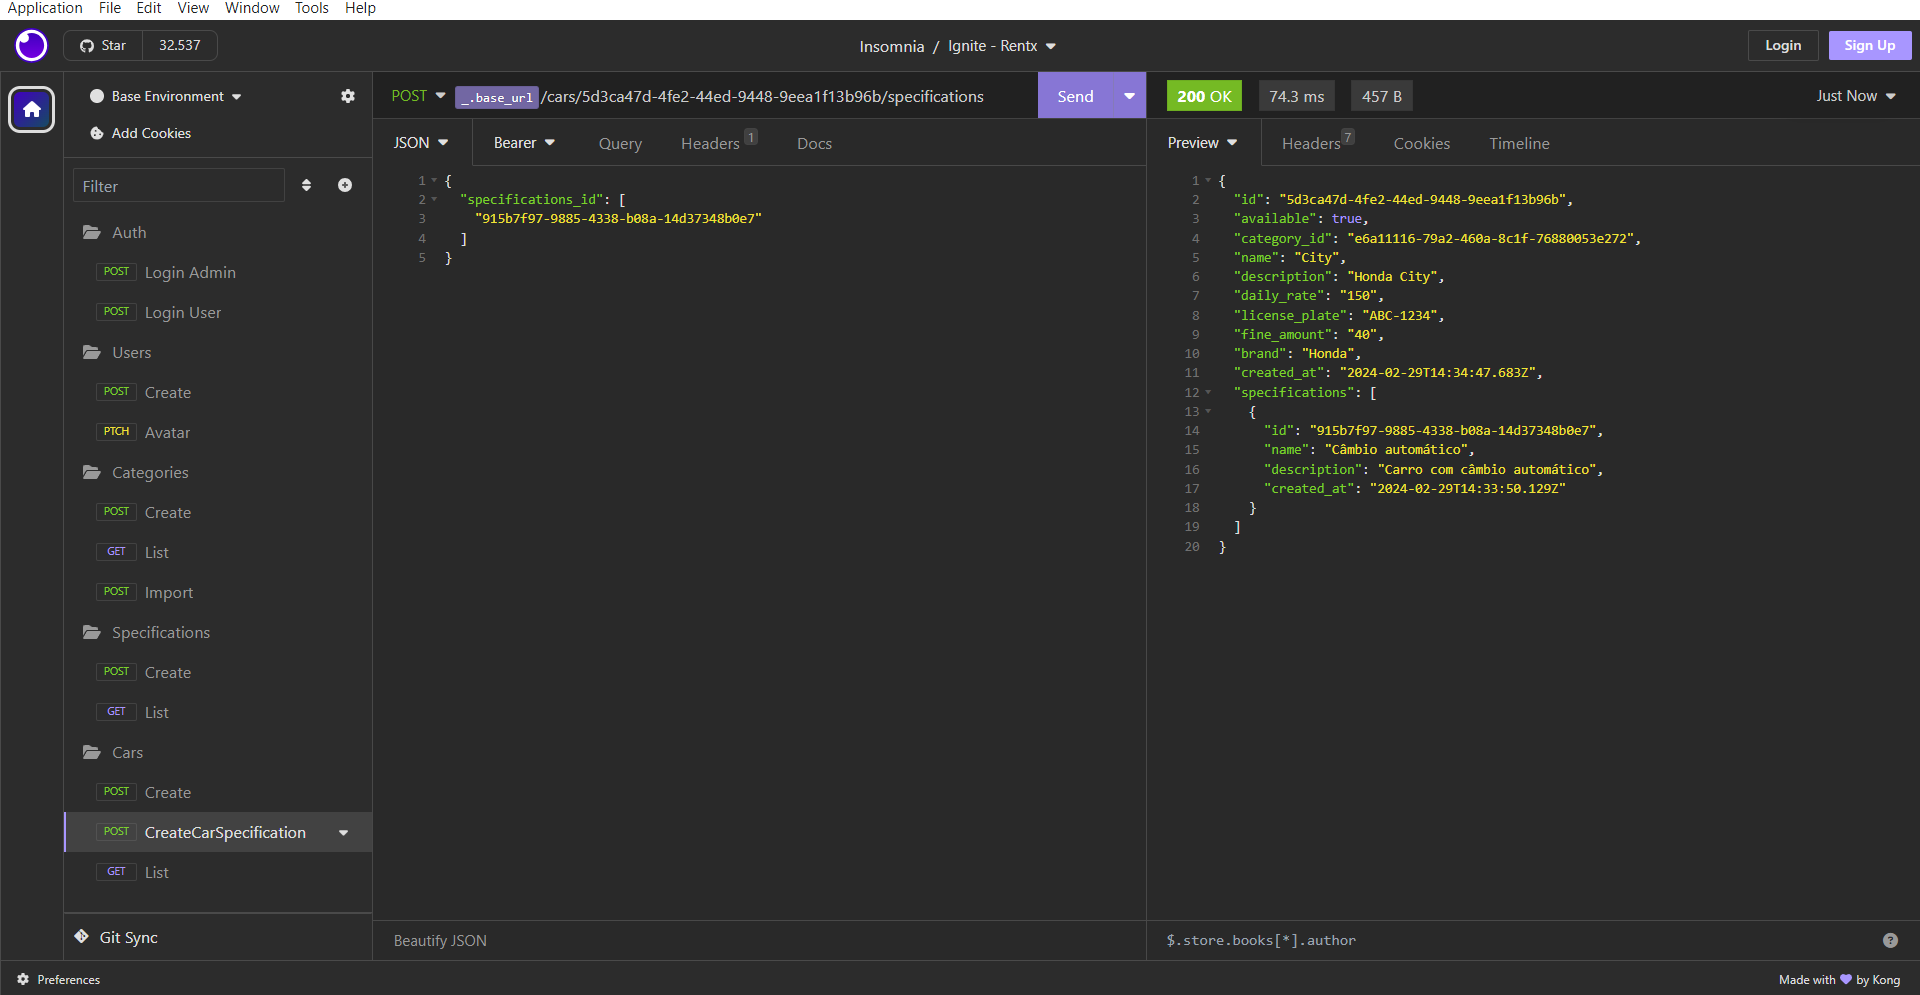
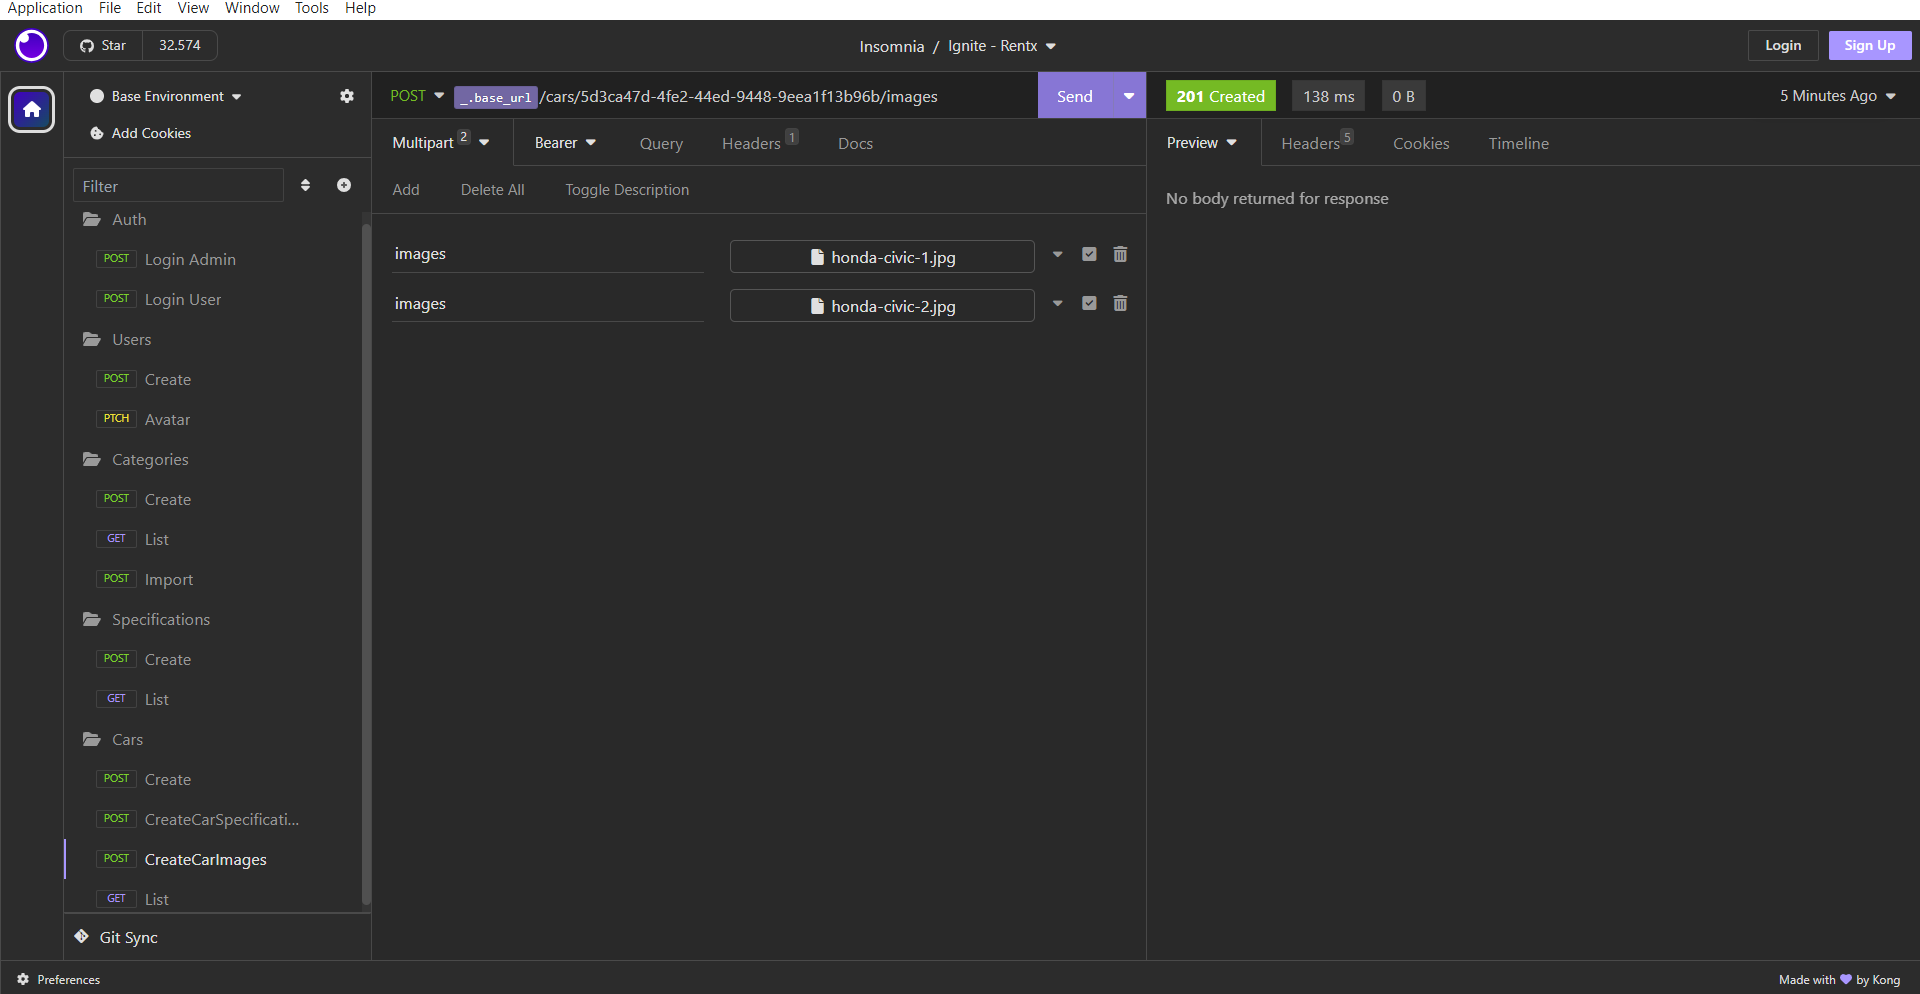
feat: Cadastro de imagens do carro

diff --git a/src/shared/infra/http/routes/cars.routes.ts b/src/shared/infra/http/routes/cars.routes.ts
@@ -1,16 +1,23 @@
 import { Router } from 'express';
+import multer from 'multer';
 
+import uploadConfig from '@config/upload';
 import { CreateCarController } from '@modules/cars/useCases/createCar/CreateCarController';
 import { CreateCarSpecificationController } from '@modules/cars/useCases/createCarSpecification/CreateCarSpecificationController';
 import { ListAvailableCarsController } from '@modules/cars/useCases/listAvailableCars/ListAvailableCarsController';
+import { UploadCarImagesController } from '@modules/cars/useCases/uploadCarImages/UploadCarImagesController';
 
 import { ensureAdmin } from '../middlewares/ensureAdmin';
 import { ensureAuthenticated } from '../middlewares/ensureAuthenticated';
 
 const carsRoutes = Router();
+
 const createCarController = new CreateCarController();
 const createCarSpecificationController = new CreateCarSpecificationController();
+const uploadCarImagesController = new UploadCarImagesController();
 const listAvailableCarsController = new ListAvailableCarsController();
+
+const upload = multer(uploadConfig.upload('./tmp/cars'));
 
 carsRoutes.post(
   '/',
@@ -24,6 +31,14 @@ carsRoutes.post(
   ensureAuthenticated,
   ensureAdmin,
   createCarSpecificationController.handle,
+);
+
+carsRoutes.post(
+  '/:id/images',
+  ensureAuthenticated,
+  ensureAdmin,
+  upload.array('images'),
+  uploadCarImagesController.handle,
 );
 
 carsRoutes.get('/available', listAvailableCarsController.handle);

diff --git a/src/shared/container/index.ts b/src/shared/container/index.ts
@@ -2,9 +2,11 @@ import { container } from 'tsyringe';
 
 import { UsersRepository } from '@modules/accounts/infra/typeorm/repositories/UsersRepository';
 import { IUsersRepository } from '@modules/accounts/repositories/IUsersRepository';
+import { CarsImagesRepository } from '@modules/cars/infra/typeorm/repositories/CarsImagesRepository';
 import { CarsRepository } from '@modules/cars/infra/typeorm/repositories/CarsRepository';
 import { CategoriesRepository } from '@modules/cars/infra/typeorm/repositories/CategoriesRepository';
 import { SpecificationsRepository } from '@modules/cars/infra/typeorm/repositories/SpecificationsRepository';
+import { ICarsImagesRepository } from '@modules/cars/repositories/ICarsImagesRepository';
 import { ICarsRepository } from '@modules/cars/repositories/ICarsRepository';
 import { ICategoriesRepository } from '@modules/cars/repositories/ICategoriesRepository';
 import { ISpecificationsRepository } from '@modules/cars/repositories/ISpecificationsRepository';
@@ -25,3 +27,8 @@ container.registerSingleton<IUsersRepository>(
 );
 
 container.registerSingleton<ICarsRepository>('CarsRepository', CarsRepository);
+
+container.registerSingleton<ICarsImagesRepository>(
+  'CarsImagesRepository',
+  CarsImagesRepository,
+);

diff --git a/src/shared/infra/typeorm/migrations/1709596858089-CreateCarImages.ts b/src/shared/infra/typeorm/migrations/1709596858089-CreateCarImages.ts
@@ -1,0 +1,45 @@
+import { MigrationInterface, QueryRunner, Table } from 'typeorm';
+
+export class CreateCarImages1709596858089 implements MigrationInterface {
+  public async up(queryRunner: QueryRunner): Promise<void> {
+    await queryRunner.createTable(
+      new Table({
+        name: 'cars_image',
+        columns: [
+          {
+            name: 'id',
+            type: 'uuid',
+            isPrimary: true,
+          },
+          {
+            name: 'car_id',
+            type: 'uuid',
+          },
+          {
+            name: 'image_name',
+            type: 'varchar',
+          },
+          {
+            name: 'created_at',
+            type: 'timestamp',
+            default: 'now()',
+          },
+        ],
+        foreignKeys: [
+          {
+            name: 'FKCarImage',
+            referencedTableName: 'cars',
+            referencedColumnNames: ['id'],
+            columnNames: ['car_id'],
+            onDelete: 'SET NULL',
+            onUpdate: 'SET NULL',
+          },
+        ],
+      }),
+    );
+  }
+
+  public async down(queryRunner: QueryRunner): Promise<void> {
+    await queryRunner.dropTable('cars_image');
+  }
+}

diff --git a/src/modules/cars/useCases/uploadCarImages/UploadCarImagesController.ts b/src/modules/cars/useCases/uploadCarImages/UploadCarImagesController.ts
@@ -1,0 +1,26 @@
+import { Request, Response } from 'express';
+import { container } from 'tsyringe';
+
+import { IFilesDTO } from '@modules/cars/dtos/IFilesDTO';
+
+import { UploadCarImagesUseCase } from './UploadCarImageUseCase';
+
+class UploadCarImagesController {
+  async handle(request: Request, response: Response): Promise<Response> {
+    const { id } = request.params;
+    const images = request.files as IFilesDTO[];
+
+    const uploadCarImagesUseCase = container.resolve(UploadCarImagesUseCase);
+
+    const images_name = images.map(file => file.filename);
+
+    await uploadCarImagesUseCase.execute({
+      car_id: id,
+      images_name,
+    });
+
+    return response.status(201).send();
+  }
+}
+
+export { UploadCarImagesController };

diff --git a/src/modules/cars/infra/typeorm/repositories/CarsImagesRepository.ts b/src/modules/cars/infra/typeorm/repositories/CarsImagesRepository.ts
@@ -1,0 +1,26 @@
+import { getRepository, Repository } from 'typeorm';
+
+import { ICarsImagesRepository } from '@modules/cars/repositories/ICarsImagesRepository';
+
+import { CarImage } from '../entities/CarImage';
+
+class CarsImagesRepository implements ICarsImagesRepository {
+  private repository: Repository<CarImage>;
+
+  constructor() {
+    this.repository = getRepository(CarImage);
+  }
+
+  async create(car_id: string, image_name: string): Promise<CarImage> {
+    const carImage = this.repository.create({
+      car_id,
+      image_name,
+    });
+
+    await this.repository.save(carImage);
+
+    return carImage;
+  }
+}
+
+export { CarsImagesRepository };

diff --git a/src/modules/cars/useCases/uploadCarImages/UploadCarImageUseCase.ts b/src/modules/cars/useCases/uploadCarImages/UploadCarImageUseCase.ts
@@ -1,0 +1,20 @@
+import { inject, injectable } from 'tsyringe';
+
+import { IUploadCarImagesDTO } from '@modules/cars/dtos/IUploadCarImagesDTO';
+import { ICarsImagesRepository } from '@modules/cars/repositories/ICarsImagesRepository';
+
+@injectable()
+class UploadCarImagesUseCase {
+  constructor(
+    @inject('CarsImagesRepository')
+    private carsImagesRepository: ICarsImagesRepository,
+  ) {}
+
+  async execute({ car_id, images_name }: IUploadCarImagesDTO): Promise<void> {
+    images_name.map(async image => {
+      await this.carsImagesRepository.create(car_id, image);
+    });
+  }
+}
+
+export { UploadCarImagesUseCase };

diff --git a/src/shared/infra/http/routes/categories.routes.ts b/src/shared/infra/http/routes/categories.routes.ts
@@ -11,11 +11,11 @@ import { ensureAuthenticated } from '../middlewares/ensureAuthenticated';
 
 const categoriesRoutes = Router();
 
-const uploadCategories = multer(uploadConfig.upload('./tmp/uploads'));
-
 const createCategoryController = new CreateCategoryController();
 const importCategoryController = new ImportCategoryController();
 const listCategoriesController = new ListCategoriesController();
+
+const uploadCategories = multer(uploadConfig.upload('./tmp/uploads'));
 
 categoriesRoutes.post(
   '/',

diff --git a/src/shared/infra/http/routes/users.routes.ts b/src/shared/infra/http/routes/users.routes.ts
@@ -9,10 +9,10 @@ import { ensureAuthenticated } from '../middlewares/ensureAuthenticated';
 
 const usersRoutes = Router();
 
-const uploadAvatar = multer(uploadConfig.upload('./tmp/avatar'));
-
 const createUserController = new CreateUserController();
 const updateUserAvatarController = new UpdateUserAvatarController();
+
+const uploadAvatar = multer(uploadConfig.upload('./tmp/avatar'));
 
 usersRoutes.use(ensureAuthenticated);
 

diff --git a/src/modules/cars/infra/typeorm/entities/CarImage.ts b/src/modules/cars/infra/typeorm/entities/CarImage.ts
@@ -1,0 +1,25 @@
+import { Column, CreateDateColumn, Entity, PrimaryColumn } from 'typeorm';
+import { v4 as uuidV4 } from 'uuid';
+
+@Entity('cars_image')
+class CarImage {
+  @PrimaryColumn()
+  id: string;
+
+  @Column()
+  car_id: string;
+
+  @Column()
+  image_name: string;
+
+  @CreateDateColumn()
+  created_at: Date;
+
+  constructor() {
+    if (!this.id) {
+      this.id = uuidV4();
+    }
+  }
+}
+
+export { CarImage };

diff --git a/src/modules/cars/repositories/ICarsImagesRepository.ts b/src/modules/cars/repositories/ICarsImagesRepository.ts
@@ -1,0 +1,7 @@
+import { CarImage } from '@modules/cars/infra/typeorm/entities/CarImage';
+
+interface ICarsImagesRepository {
+  create(car_id: string, image_name: string): Promise<CarImage>;
+}
+
+export { ICarsImagesRepository };

diff --git a/src/modules/cars/dtos/IUploadCarImagesDTO.ts b/src/modules/cars/dtos/IUploadCarImagesDTO.ts
@@ -1,0 +1,6 @@
+interface IUploadCarImagesDTO {
+  car_id: string;
+  images_name: string[];
+}
+
+export { IUploadCarImagesDTO };

diff --git a/src/modules/cars/dtos/IFilesDTO.ts b/src/modules/cars/dtos/IFilesDTO.ts
@@ -1,0 +1,5 @@
+interface IFilesDTO {
+  filename: string;
+}
+
+export { IFilesDTO };
